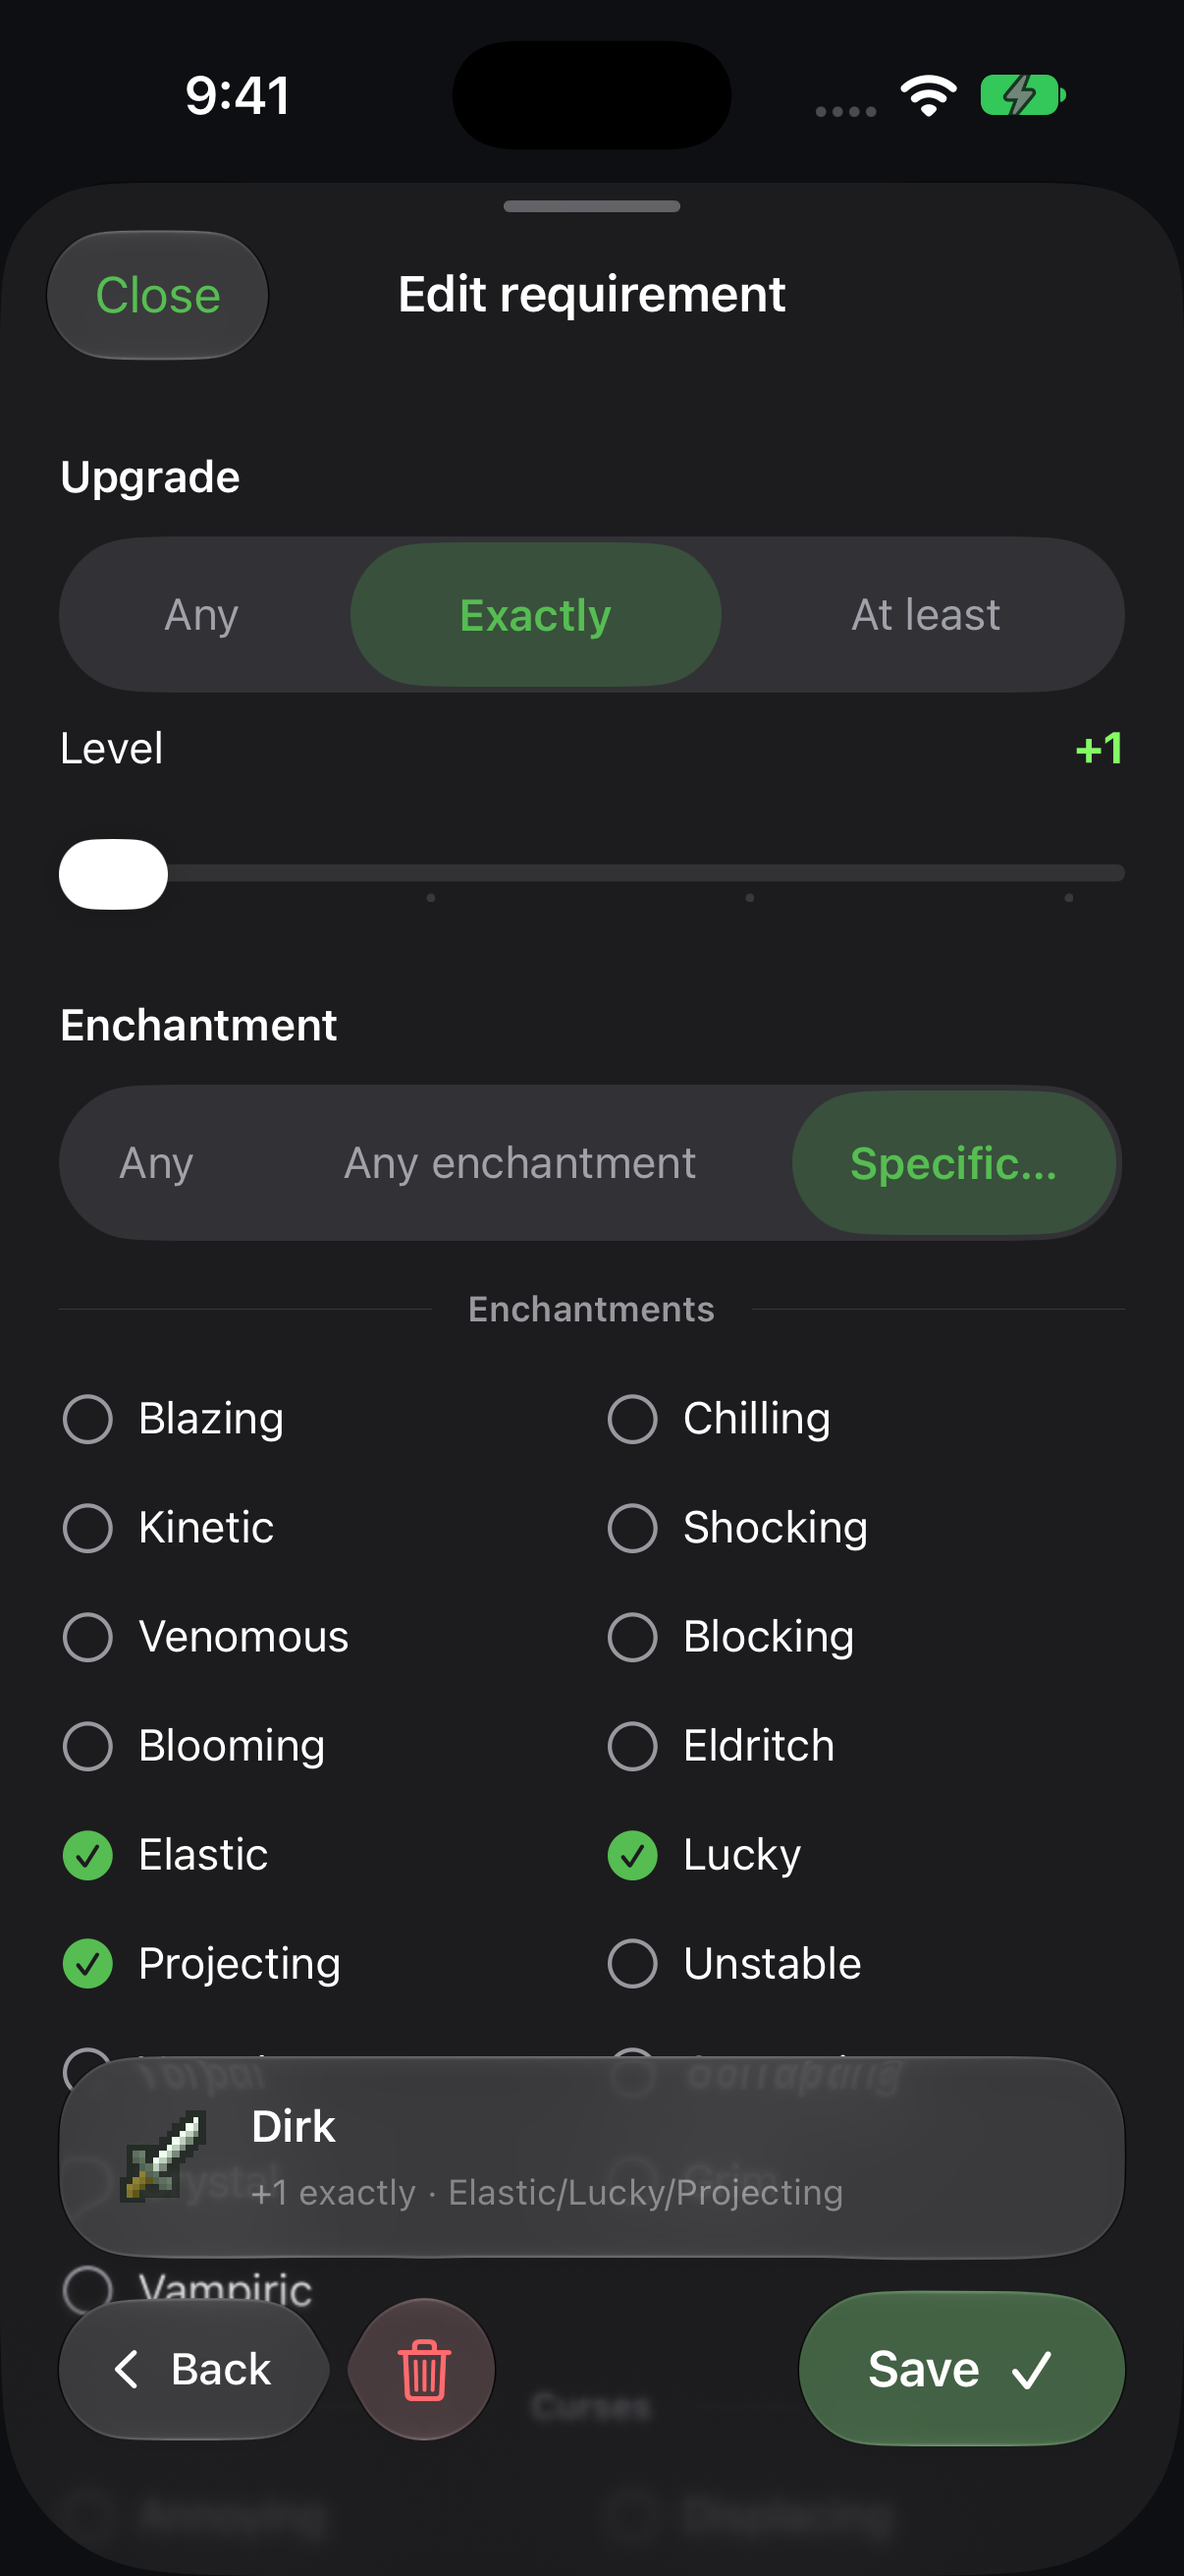
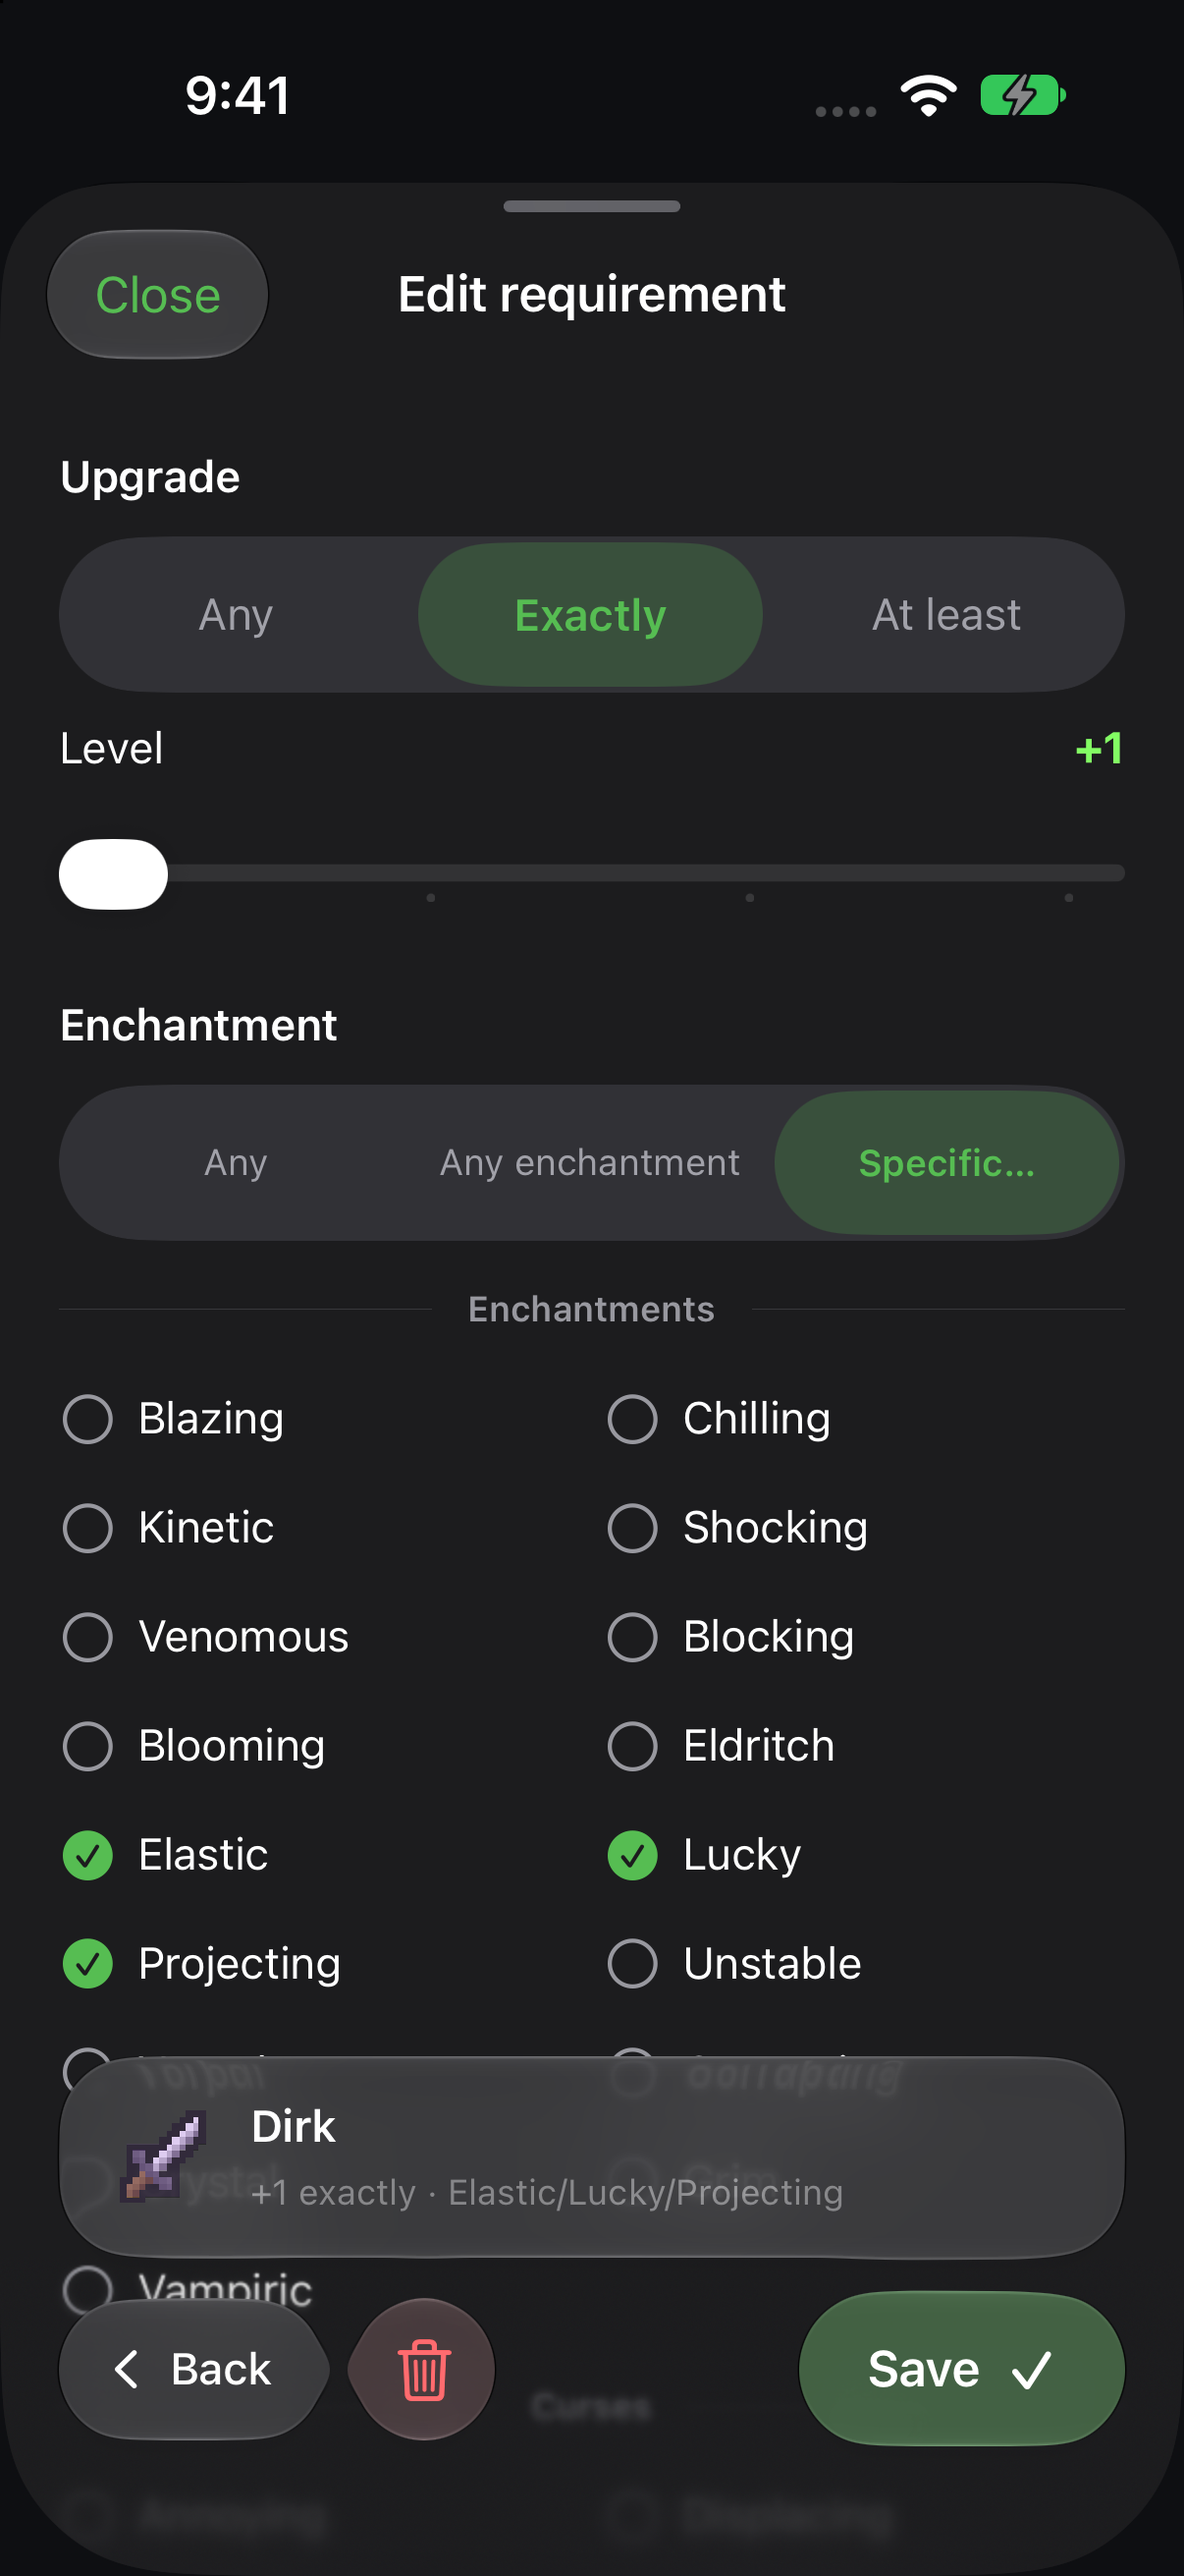
Keep requirement selector segments equal in width

diff --git a/ios/SeedSeeker/RequirementEditorControls.swift b/ios/SeedSeeker/RequirementEditorControls.swift
@@ -23,15 +23,15 @@ private struct RequirementNativeSegments<Value: Hashable>: UIViewRepresentable {
 
     func makeCoordinator() -> Coordinator { Coordinator(selection: $selection, options: options) }
 
-    func makeUIView(context: Context) -> UISegmentedControl {
-        let control = UISegmentedControl(items: options.map(\.1))
-        control.apportionsSegmentWidthsByContent = true
+    func makeUIView(context: Context) -> RequirementUISegmentedControl {
+        let control = RequirementUISegmentedControl(items: options.map(\.1))
+        control.apportionsSegmentWidthsByContent = false
         control.setContentHuggingPriority(.defaultLow, for: .horizontal)
         control.addTarget(context.coordinator, action: #selector(Coordinator.select(_:)), for: .valueChanged)
         return control
     }
 
-    func updateUIView(_ control: UISegmentedControl, context: Context) {
+    func updateUIView(_ control: RequirementUISegmentedControl, context: Context) {
         context.coordinator.selection = $selection
         context.coordinator.options = options
         if control.numberOfSegments != options.count {
@@ -49,13 +49,10 @@ private struct RequirementNativeSegments<Value: Hashable>: UIViewRepresentable {
         control.accessibilityLabel = title
         control.tintColor = UIColor(AppTheme.accent)
         control.selectedSegmentTintColor = UIColor(AppTheme.accent).withAlphaComponent(0.22)
-        let font = UIFont.preferredFont(forTextStyle: .subheadline, compatibleWith: control.traitCollection)
-        control.setTitleTextAttributes([.font: font, .foregroundColor: UIColor.secondaryLabel], for: .normal)
-        control.setTitleTextAttributes([.font: UIFont.systemFont(ofSize: font.pointSize, weight: .semibold),
-                                        .foregroundColor: UIColor(AppTheme.accent)], for: .selected)
+        control.setNeedsLayout()
     }
 
-    func sizeThatFits(_ proposal: ProposedViewSize, uiView: UISegmentedControl, context: Context) -> CGSize? {
+    func sizeThatFits(_ proposal: ProposedViewSize, uiView: RequirementUISegmentedControl, context: Context) -> CGSize? {
         CGSize(width: proposal.width ?? uiView.intrinsicContentSize.width, height: proposal.height ?? 52)
     }
 
@@ -72,6 +69,34 @@ private struct RequirementNativeSegments<Value: Hashable>: UIViewRepresentable {
             guard options.indices.contains(control.selectedSegmentIndex) else { return }
             selection.wrappedValue = options[control.selectedSegmentIndex].0
         }
+    }
+}
+
+/// Equal columns retain the native selection lens. A shared fitted font keeps
+/// longer titles on one line without making the selected segment change size.
+private final class RequirementUISegmentedControl: UISegmentedControl {
+    private var appliedFontSize: CGFloat?
+
+    override func layoutSubviews() {
+        if numberOfSegments > 0, bounds.width > 0 {
+            let preferred = UIFont.preferredFont(forTextStyle: .subheadline, compatibleWith: traitCollection)
+            let selected = UIFont.systemFont(ofSize: preferred.pointSize, weight: .semibold)
+            let widest = (0..<numberOfSegments).map { index in
+                let title = (titleForSegment(at: index) ?? "") as NSString
+                return max(title.size(withAttributes: [.font: preferred]).width,
+                           title.size(withAttributes: [.font: selected]).width)
+            }.max() ?? 0
+            let available = max(1, bounds.width / CGFloat(numberOfSegments) - 16)
+            let pointSize = preferred.pointSize * min(1, available / max(1, widest))
+            if appliedFontSize == nil || abs(appliedFontSize! - pointSize) > 0.05 {
+                appliedFontSize = pointSize
+                setTitleTextAttributes([.font: preferred.withSize(pointSize),
+                                       .foregroundColor: UIColor.secondaryLabel], for: .normal)
+                setTitleTextAttributes([.font: UIFont.systemFont(ofSize: pointSize, weight: .semibold),
+                                       .foregroundColor: UIColor(AppTheme.accent)], for: .selected)
+            }
+        }
+        super.layoutSubviews()
     }
 }
 
